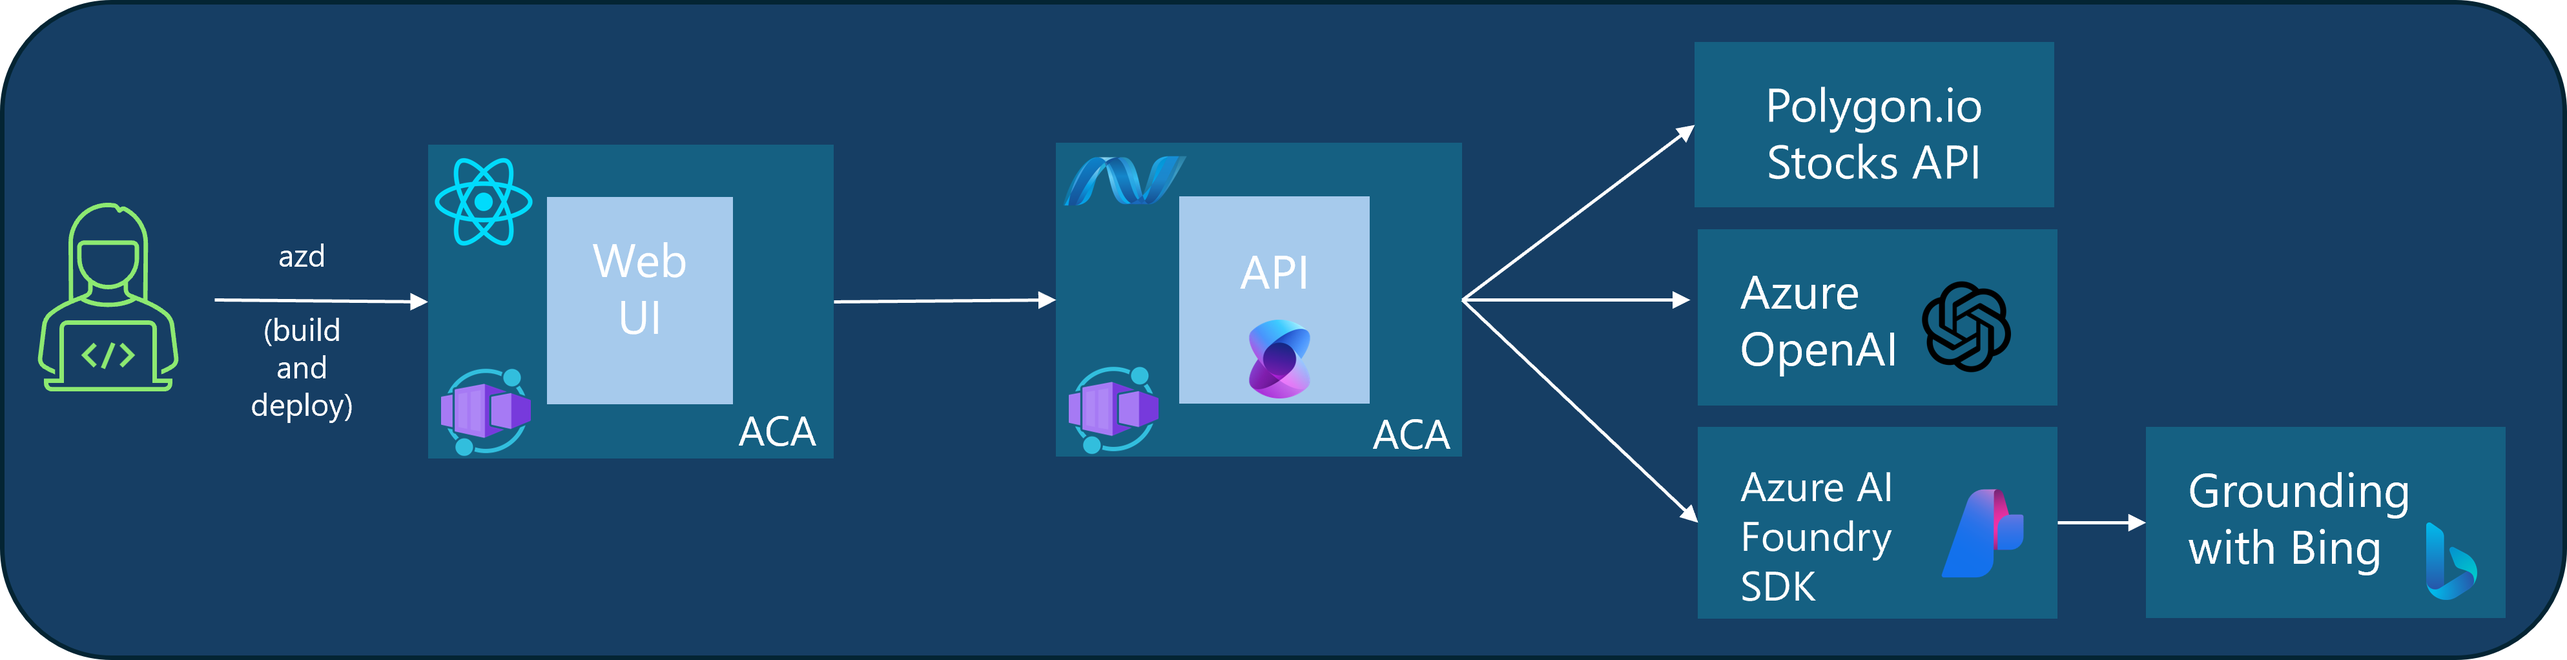
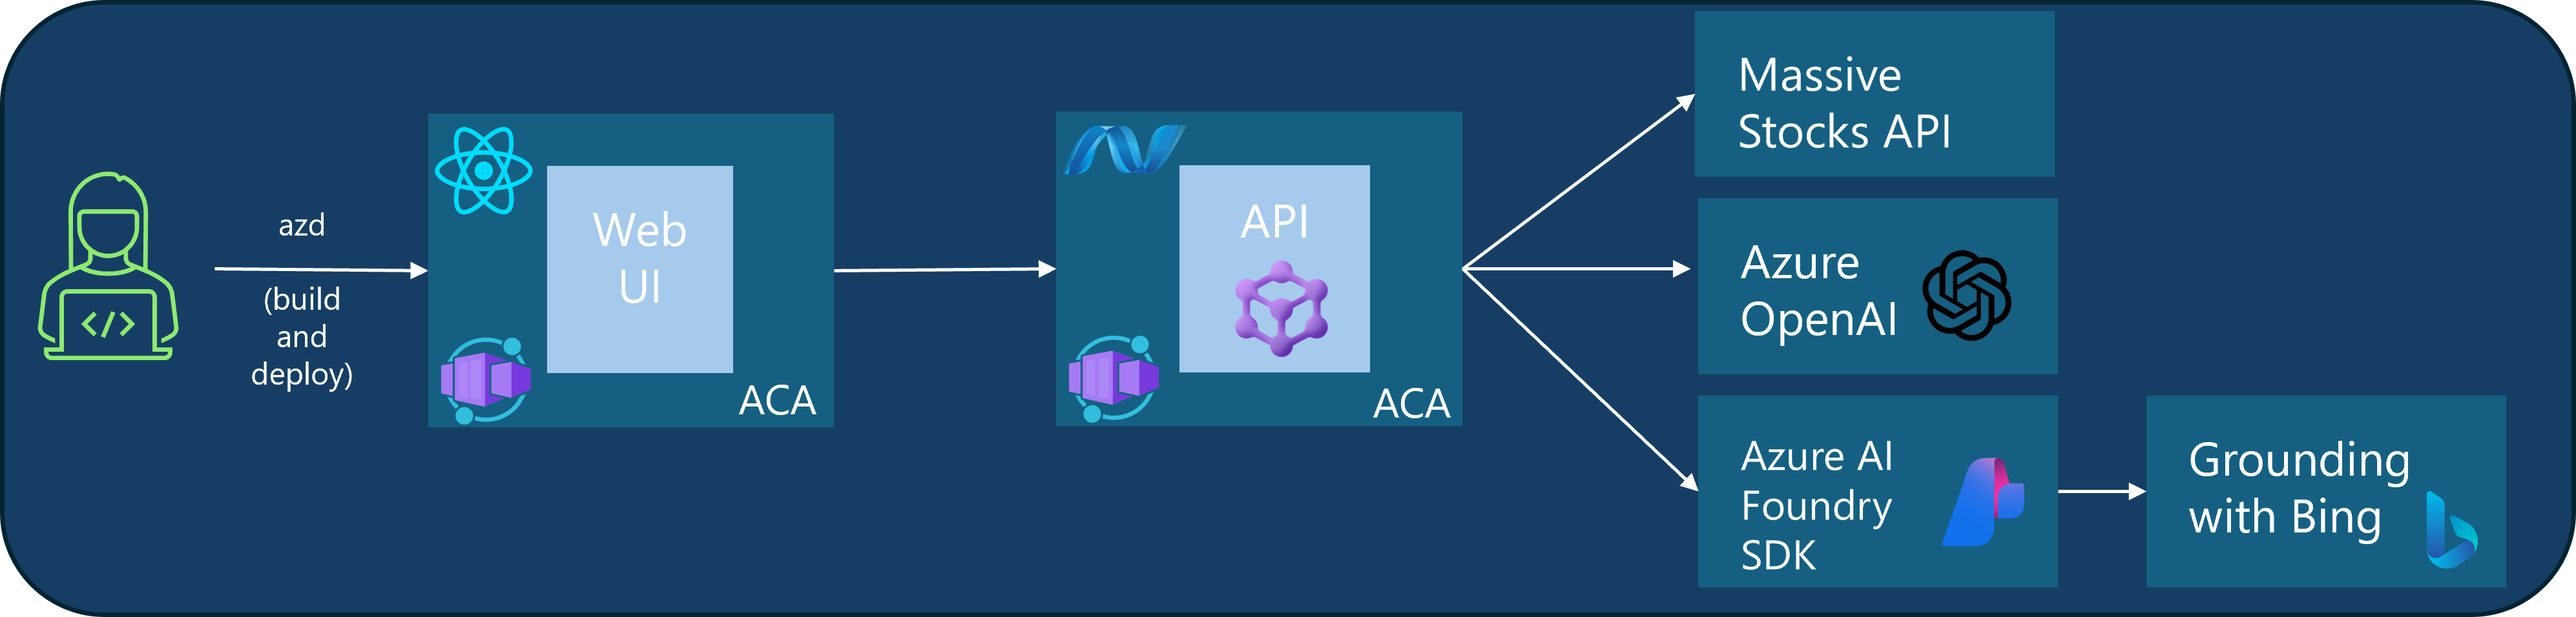
remove remaining references to semantic kernel including in architecture diagram

diff --git a/docs/wksp/05-agent-framework-workshop/create-deployable-app/index.md b/docs/wksp/05-agent-framework-workshop/create-deployable-app/index.md
@@ -1,7 +1,7 @@
 # Turning the console application into a Deployable application
 
 In this lesson we go over the steps on how to create a deployable version of the
-semantic kernel console application by creating 3 main components:
+Agent Framework console application by creating 3 main components:
 
 1. [Backend API (C#) using ASP .NET Core libraries](backend-api.md)
 1. [React JS Web application (with Node Proxy)](web-app.md)

diff --git a/docs/wksp/05-agent-framework-workshop/create-deployable-app/azd-infra.md b/docs/wksp/05-agent-framework-workshop/create-deployable-app/azd-infra.md
@@ -19,9 +19,9 @@ For each component we need to provide the path to the corresponding `Dockerfile`
 to build and package the application:
 
 ```yaml
-name: semantic-kernel-workshop-csharp
+name: agent-framework-workshop-csharp
 metadata:
-  template: semantic-kernel-workshop-csharp@0.0.1-beta
+  template: agent-framework-workshop-csharp@0.0.1-beta
 services:
   api:
     project: ./App/backend/
